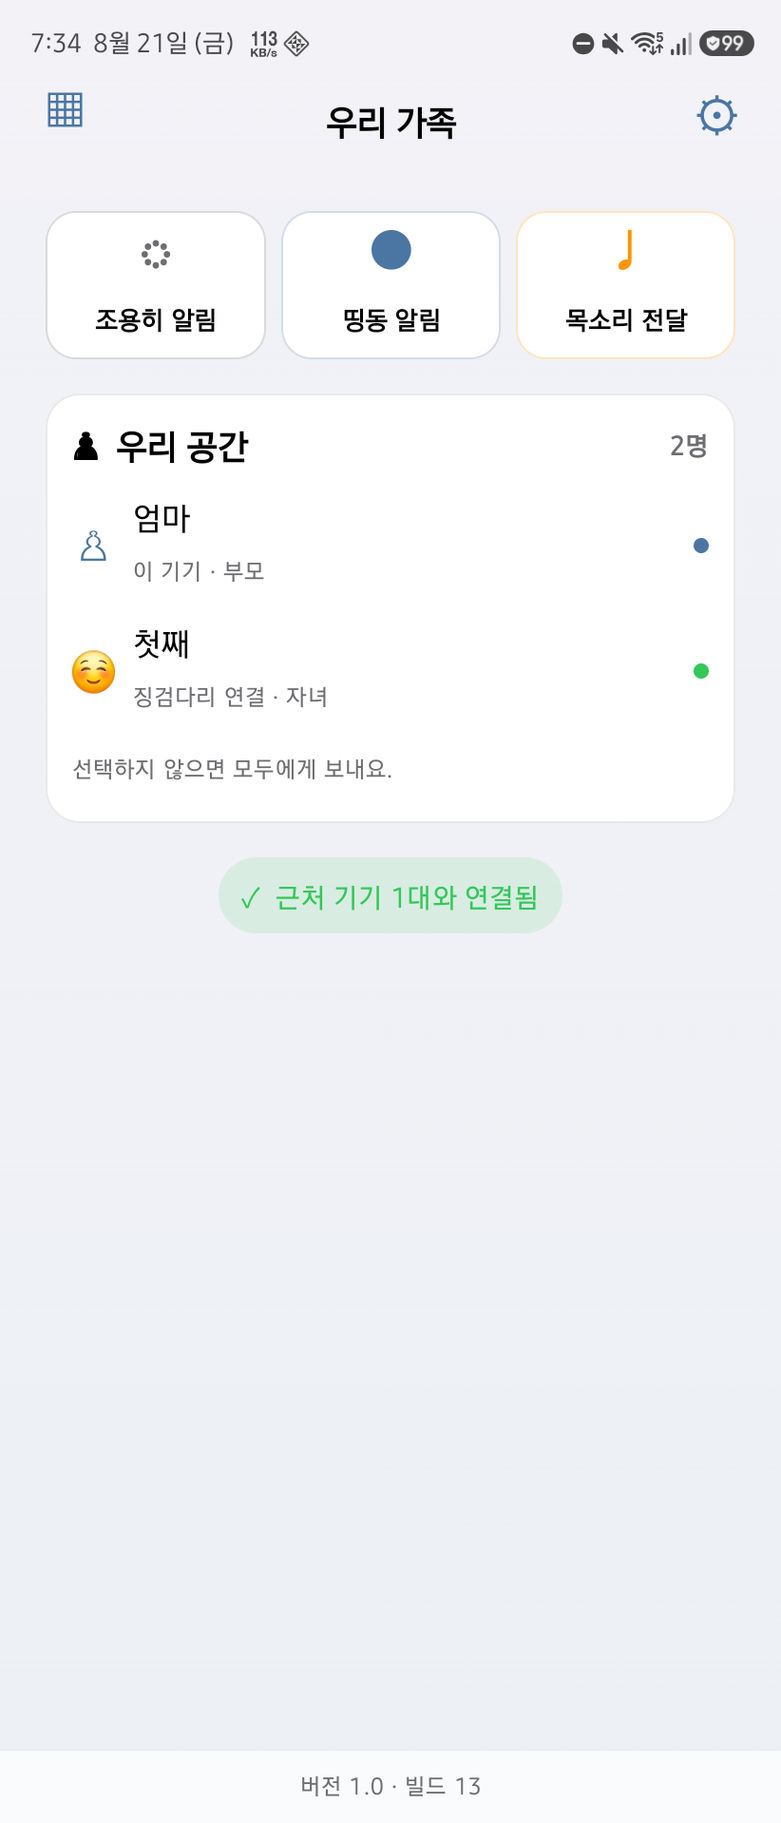
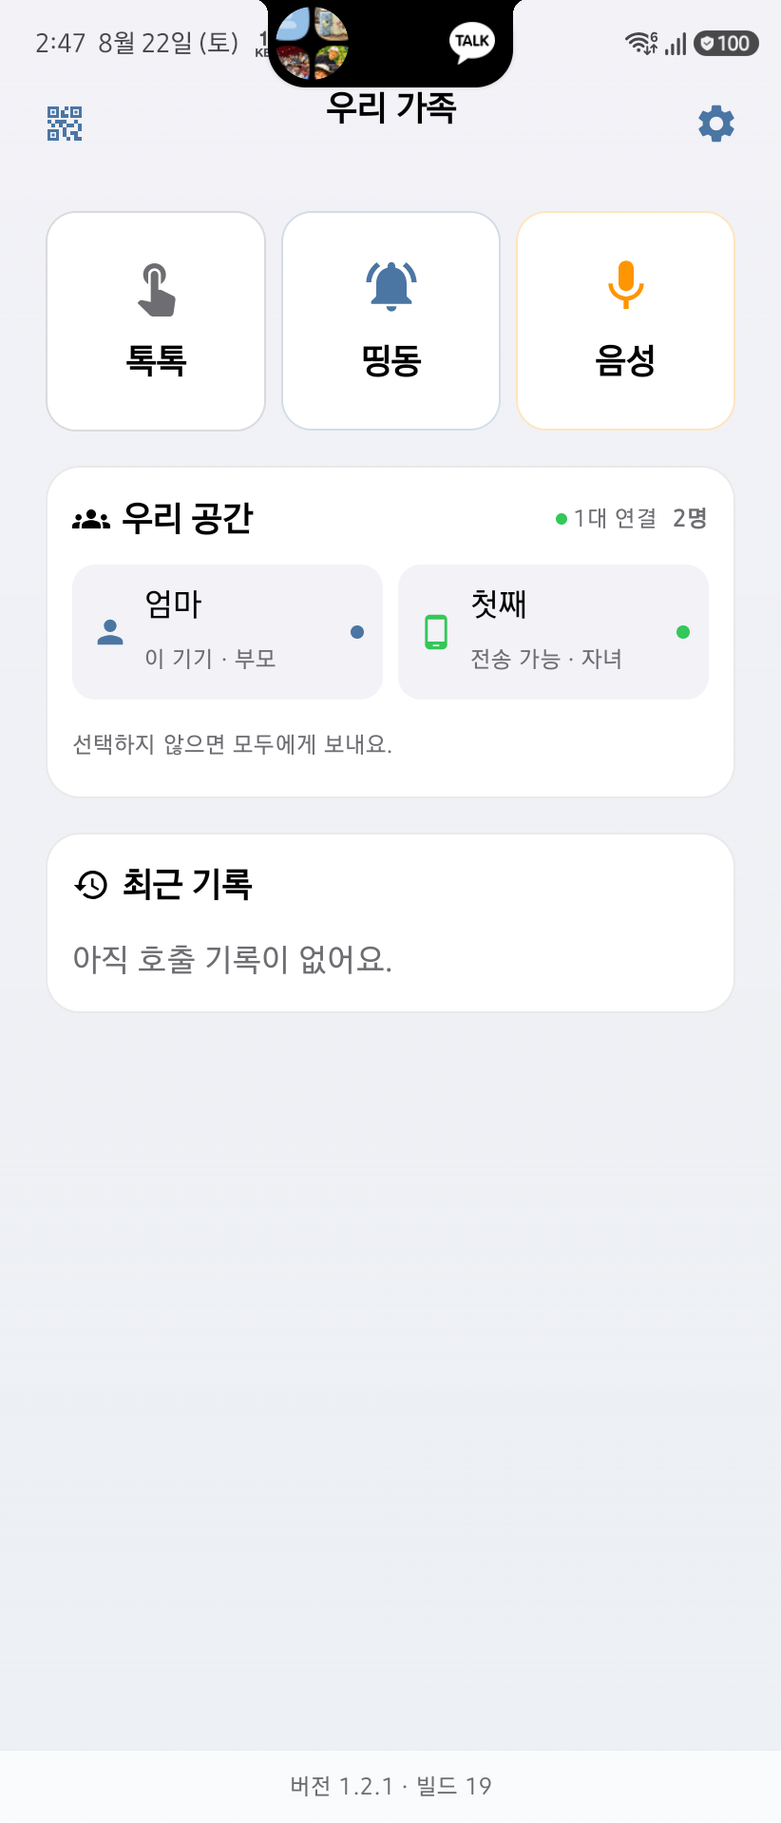
큰 정사각형 음성 버튼으로 조정

diff --git a/app/src/main/java/com/armsone/button/ui/ButtonApp.kt b/app/src/main/java/com/armsone/button/ui/ButtonApp.kt
@@ -412,7 +412,7 @@ private fun RoleCard(role: AppRole, color: Color, model: AppViewModel, modifier:
         Spacer(Modifier.height(10.dp))
         Text(if (parent) "부모" else "자녀", fontSize = 17.sp, fontWeight = FontWeight.SemiBold)
         Spacer(Modifier.height(3.dp))
-        Text("소리와 호출을 주고받아요",
+        Text("음성과 호출을 주고받아요",
             fontSize = 12.sp, color = Secondary, textAlign = TextAlign.Center)
     }
 }
@@ -425,7 +425,7 @@ private fun ParentHomeScreen(state: AppUiState, model: AppViewModel) = AdaptiveC
         VoiceState.DENIED -> "마이크 설정 필요"
         VoiceState.READY -> "전송 확인"
         VoiceState.SENT -> "전송했어요"
-        VoiceState.IDLE -> "소리"
+        VoiceState.IDLE -> "음성"
     }
     val voiceIcon = when (state.voiceState) {
         VoiceState.RECORDING -> Icons.Default.GraphicEq
@@ -476,7 +476,7 @@ private fun ChildHomeScreen(state: AppUiState, model: AppViewModel) = AdaptiveCo
             model::beginQuietHold, model::endQuietHold)
         HomeAction("띵동", Icons.Default.NotificationsActive, Accent, "dingdong", "띵동 소리와 함께 부모와 가족에게 호출을 보내요",
             Modifier.weight(1f), state.sendCooldownRemainingSeconds, model::sendDingDong)
-        HomeAction("소리", Icons.Default.Mic, Orange, "voice", "녹음한 소리를 보낼지 확인한 뒤 가족에게 보내요",
+        HomeAction("음성", Icons.Default.Mic, Orange, "voice", "녹음한 음성을 보낼지 확인한 뒤 가족에게 보내요",
             Modifier.weight(1f), state.sendCooldownRemainingSeconds, { model.showVoice(true) })
     }
     Spacer(Modifier.height(18.dp))
@@ -518,16 +518,16 @@ private fun HomeAction(
         }
         else -> Modifier.clickable(onClick = onTap)
     }
-    Column(modifier.heightIn(min = 78.dp).background(Color.White, RoundedCornerShape(16.dp))
+    Column(modifier.background(Color.White, RoundedCornerShape(16.dp))
         .aspectRatio(1f).border(1.dp, color.copy(.25f), RoundedCornerShape(16.dp)).then(gesture).testTag(tag)
         .semantics {
             contentDescription = if (enabled) title else "$title, ${cooldownSeconds}초 뒤에 다시 보낼 수 있어요"
             if (enabled) onClick(label = hint) { onTap(); true } else disabled()
-        }.padding(horizontal = 4.dp),
+        }.padding(8.dp),
         horizontalAlignment = Alignment.CenterHorizontally, verticalArrangement = Arrangement.Center) {
-        Icon(icon, contentDescription = null, tint = if (enabled) color else color.copy(.35f), modifier = Modifier.size(25.dp))
-        Spacer(Modifier.height(7.dp))
-        Text(title, fontSize = 12.sp, fontWeight = FontWeight.SemiBold, maxLines = 1,
+        Icon(icon, contentDescription = null, tint = if (enabled) color else color.copy(.35f), modifier = Modifier.size(32.dp))
+        Spacer(Modifier.height(10.dp))
+        Text(title, fontSize = if (title.length > 4) 12.sp else 17.sp, fontWeight = FontWeight.SemiBold, maxLines = 1,
             color = if (enabled) Color.Unspecified else Secondary)
         if (!enabled) {
             Spacer(Modifier.height(2.dp))
@@ -777,7 +777,7 @@ private fun QrPlaceholder(value: String) {
 @Composable
 private fun VoiceDialog(state: VoiceState, cooldownSeconds: Int, model: AppViewModel) {
     Dialog(onDismissRequest = { model.showVoice(false) }, properties = DialogProperties(usePlatformDefaultWidth = false)) {
-        SheetFrame("소리", "닫기", { model.showVoice(false) }, "voice_sheet") {
+        SheetFrame("음성", "닫기", { model.showVoice(false) }, "voice_sheet") {
             Text("버튼을 누르고 있는 동안 녹음되고,\n손을 떼면 보낼지 확인해요.", fontSize = 17.sp, color = Secondary,
                 textAlign = TextAlign.Center, modifier = Modifier.padding(top = 24.dp))
             Spacer(Modifier.height(28.dp))
@@ -792,10 +792,10 @@ private fun VoiceDialog(state: VoiceState, cooldownSeconds: Int, model: AppViewM
                     model.beginVoiceHold(); tryAwaitRelease(); model.endVoiceHold()
                 }) }.testTag("voice_hold").semantics {
                     if (coolingDown) {
-                        contentDescription = "소리 버튼, ${cooldownSeconds}초 뒤에 다시 보낼 수 있어요"
+                        contentDescription = "음성 버튼, ${cooldownSeconds}초 뒤에 다시 보낼 수 있어요"
                         disabled()
                     } else {
-                        contentDescription = "소리 버튼"
+                        contentDescription = "음성 버튼"
                         onClick(label = "1초 동안 녹음하고 전송 여부 확인") { model.recordAccessibleVoice(); true }
                     }
                 }, contentAlignment = Alignment.Center) {
@@ -833,10 +833,10 @@ private fun VoiceConfirmationDialog(state: AppUiState, model: AppViewModel) {
     val recipient = state.members.firstOrNull { it.id == state.selectedTargetID && !it.isCurrentDevice }
     AlertDialog(
         onDismissRequest = model::discardVoice,
-        title = { Text("소리를 보낼까요?") },
+        title = { Text("음성을 보낼까요?") },
         text = {
-            Text(recipient?.let { "${it.name}에게 녹음한 소리를 보내요." }
-                ?: "모두에게 녹음한 소리를 보내요.")
+            Text(recipient?.let { "${it.name}에게 녹음한 음성을 보내요." }
+                ?: "모두에게 녹음한 음성을 보내요.")
         },
         confirmButton = { TextButton(onClick = model::confirmVoiceSend) { Text("보내기") } },
         dismissButton = { TextButton(onClick = model::discardVoice) { Text("취소") } },
@@ -882,7 +882,7 @@ private fun IncomingDialog(event: IncomingUi, model: AppViewModel) {
                         IncomingKind.QUIET_ALERT -> "톡톡"
                         IncomingKind.SIREN -> "사이렌 호출"
                         IncomingKind.DING_DONG -> "띵동"
-                        IncomingKind.VOICE_MESSAGE -> "소리"
+                        IncomingKind.VOICE_MESSAGE -> "음성"
                     }
                     Text("${event.senderName}의 $title", fontSize = 22.sp, fontWeight = FontWeight.Bold, textAlign = TextAlign.Center)
                     Spacer(Modifier.height(8.dp))
@@ -890,7 +890,7 @@ private fun IncomingDialog(event: IncomingUi, model: AppViewModel) {
                     if (event.hasVoice) {
                         Spacer(Modifier.height(22.dp))
                         OutlinedButton(onClick = model::playVoice, modifier = Modifier.testTag("play_voice")) {
-                            Text("▶  소리 듣기", fontWeight = FontWeight.SemiBold)
+                            Text("▶  음성 듣기", fontWeight = FontWeight.SemiBold)
                         }
                     }
                     Spacer(Modifier.weight(1f))

diff --git a/app/src/main/java/com/armsone/button/platform/NotificationHelper.kt b/app/src/main/java/com/armsone/button/platform/NotificationHelper.kt
@@ -73,11 +73,11 @@ class NotificationHelper(
         }
         val voice = NotificationChannel(
             VOICE_CHANNEL_ID,
-            "소리",
+            "음성",
             NotificationManager.IMPORTANCE_HIGH,
         ).apply {
             group = CHANNEL_GROUP_ID
-            description = "가족이 보낸 소리가 도착하면 알려요."
+            description = "가족이 보낸 음성이 도착하면 알려요."
             enableVibration(false)
         }
         val siren = NotificationChannel(
@@ -141,11 +141,11 @@ class NotificationHelper(
             .setSubText(when {
                 siren -> "사이렌 알림"
                 dingDong -> "띵동"
-                voice -> "소리"
+                voice -> "음성"
                 else -> "톡톡"
             })
             .setContentText(when {
-                voice -> "${event.senderName}의 소리가 도착했어요."
+                voice -> "${event.senderName}의 음성이 도착했어요."
                 siren -> "${event.senderName}의 긴급 사이렌 호출이 왔어요."
                 else -> "${event.senderName}의 호출이 왔어요."
             })

diff --git a/app/src/main/java/com/armsone/button/model/CallEvent.kt b/app/src/main/java/com/armsone/button/model/CallEvent.kt
@@ -26,12 +26,12 @@ class CallEvent(
         QuietAlert("quietAlert", "톡톡"),
         Siren("siren", "사이렌 호출"),
         DingDong("dingDong", "띵동"),
-        VoiceMessage("voiceMessage", "소리"),
+        VoiceMessage("voiceMessage", "음성"),
         Acknowledge("acknowledge", "확인"),
         Presence("presence", "연결 확인");
 
         val arrivalTitle: String
-            get() = "$title${if (this == VoiceMessage) "가" else "이"}"
+            get() = "${title}이"
 
         companion object {
             fun fromRawValue(value: String): Kind? = entries.firstOrNull { it.rawValue == value }

diff --git a/app/src/main/java/com/armsone/button/model/FamilyRole.kt b/app/src/main/java/com/armsone/button/model/FamilyRole.kt
@@ -9,13 +9,13 @@ enum class FamilyRole(
     Parent(
         rawValue = "parent",
         title = "부모",
-        subtitle = "소리와 호출을 주고받아요",
+        subtitle = "음성과 호출을 주고받아요",
         symbolName = "figure.and.child.holdinghands",
     ),
     Child(
         rawValue = "child",
         title = "자녀",
-        subtitle = "소리와 호출을 주고받아요",
+        subtitle = "음성과 호출을 주고받아요",
         symbolName = "face.smiling",
     );
 

diff --git a/app/src/test/java/com/armsone/button/model/CallEventCodingTest.kt b/app/src/test/java/com/armsone/button/model/CallEventCodingTest.kt
@@ -30,7 +30,7 @@ class CallEventCodingTest {
         assertEquals("siren", CallEvent.Kind.Siren.rawValue)
         assertEquals("톡톡이", CallEvent.Kind.QuietAlert.arrivalTitle)
         assertEquals("띵동이", CallEvent.Kind.DingDong.arrivalTitle)
-        assertEquals("소리가", CallEvent.Kind.VoiceMessage.arrivalTitle)
+        assertEquals("음성이", CallEvent.Kind.VoiceMessage.arrivalTitle)
     }
 
     @Test

diff --git a/app/src/main/java/com/armsone/button/state/AppViewModel.kt b/app/src/main/java/com/armsone/button/state/AppViewModel.kt
@@ -784,7 +784,7 @@ class AppViewModel(
             IncomingKind.QUIET_ALERT -> "톡톡"
             IncomingKind.SIREN -> "사이렌 호출"
             IncomingKind.DING_DONG -> "띵동"
-            IncomingKind.VOICE_MESSAGE -> "소리"
+            IncomingKind.VOICE_MESSAGE -> "음성"
         }
         currentSpaceID()?.let { spaceID ->
             historyStore.recordSent(

diff --git a/docs/matchup-matrix.md b/docs/matchup-matrix.md
@@ -1,6 +1,6 @@
 # iOS → Android matchup matrix
 
-Evidence status: **multiple saved rooms, 20-entry history retention, per-device remaining-recipient counts, child sound sending, explicit send confirmation, square `톡톡`/`띵동`/`소리` actions, and purpose-matched icons are implemented on both platforms; paired post-change visual and live multi-device push evidence is still required**. The latest source passed 40 iOS tests plus a simulator build, the Android debug unit suite plus `assembleDebug`, and all 21 server tests. Existing screenshot catalogs predate this change and the iOS project still has no full fixture/XCUITest catalog, so no affected row is labelled fully `matched`.
+Evidence status: **multiple saved rooms, 20-entry history retention, per-device remaining-recipient counts, child voice sending, explicit send confirmation, large square `톡톡`/`띵동`/`음성` actions, and purpose-matched icons are implemented on both platforms; paired post-change visual and live multi-device push evidence is still required**. The latest source passed the iOS release build and the Android debug unit suite plus `assembleDebug`; the enlarged Android `parent_home` fixture was captured on SM-F968N. The iOS project still has no full fixture/XCUITest catalog, so no affected row is labelled fully `matched`.
 
 Shared profile is `ko-KR`, light appearance, portrait, default text scale, a deterministic family named `우리 가족`, sender `엄마`, member `첫째`, unless a row states otherwise. Android captures are 822×1918 PNGs from SM-F968N (Android 16) and 1200×2000 PNGs from SM-T500 (Android 10). The only available iOS baseline is 1206×2622 from the dedicated iPhone simulator. Immutable hashes are recorded in `docs/screenshots/SHA256SUMS`.
 
@@ -18,7 +18,7 @@ Shared profile is `ko-KR`, light appearance, portrait, default text scale, a det
 | join_invite_confirmed_named | participate action | enabled CTA and persistence | valid invite, member=`첫째` | `참여하기`; then role selection | source target inventoried | relaunch trace missing | tap and relaunch | source/High | implemented from source; behavioral parity unverified |
 | role_compact | parent/child cards | vertical layout and exact text | compact width | `RoleSelectionView.swift`, parent then child | Compose compact target | bounds unmeasured | phone capture | source/High | implemented from source; visual parity unverified |
 | role_regular | parent/child cards | horizontal adaptive layout | regular/≥600dp | iOS HStack for regular size class | Android tablet target | breakpoint equivalence unproven | iPad + Android tablet pair | source/High | 확인 필요 |
-| parent_idle | square action cards and history | content/order/geometry | parent, searching, empty history | square `톡톡`, `띵동`, `소리`; two-column family card; `최근 기록`; `아직 호출 기록이 없어요.` | Compose source uses the same labels, order, and 1:1 action aspect ratio | post-change runtime layout unmeasured | recapture `parent_home` | source/High | implemented from source; visual parity unverified |
+| parent_idle | large square action cards and history | content/order/geometry | parent, searching, empty history | large square `톡톡`, `띵동`, `음성`; two-column family card; `최근 기록`; `아직 호출 기록이 없어요.` | Compose uses the same labels, order, 1:1 action aspect ratio, 32-unit icons, and 17-unit labels | iOS post-change capture unavailable | capture the same iOS state | Android runtime+source/High | Android captured; paired visual parity unverified |
 | home_action_icons | three parent actions / three child actions | icon meaning, state, tint, square geometry | parent/child idle and recording fixtures | SF Symbols: tapping hand, ringing/badged bell, mic; voice states use waveform, mic-off, checkmark | Material vectors use touch-app, notifications-active, mic; voice states use graphic-eq, mic-off, check-circle | platform vector path geometry differs and paired captures are absent | capture the same states on iPhone and Android phone/tablet | source/High | semantic relationship and square geometry implemented; exact visual parity unverified |
 | parent_connected | compact transport status | state text and placement | 1 peer | presence header dot + `1대 연결`; no standalone badge | Compose now places the same compact status in the presence header | BLE runtime not traced; post-change capture absent | paired connection trace and recapture | source/High | implemented from source; behavioral/visual parity unverified |
 | parent_demo | demo hint | content/state | demo enabled | `데모 모드: 보낸 호출이 이 기기로 다시 전달돼요.` | source target inventoried | runtime not captured | toggle demo, return home | source/High | implemented from source; visual parity unverified |
@@ -49,7 +49,7 @@ Shared profile is `ko-KR`, light appearance, portrait, default text scale, a det
 | voice_recording | parent home action | press/hold without recorder navigation | granted, held | home action turns red with waveform and records immediately; release opens a send decision | Android source has the same recording and decision transition | paired post-change capture and real audio trace missing | hold/release on both senders and capture the decision | source/High | implemented from source; behavioral/visual parity unverified |
 | voice_recording_header | navigation title subtitle | recording visibility above covered button | parent holds voice action | room title stays centered with red `녹음 중…` directly below | same fixed subtitle line and exact text in the 44dp header | paired post-change iOS capture absent | capture recording state on both platforms | source/High | implemented from source; visual parity unverified |
 | voice_auto_stop | recorder limit | 15-second auto completion | held ≥15s | auto-stop at 15s and ask whether to send | 15,000ms handler + recorder cap followed by `READY` | timing not measured | monotonic timing test | source/High | implemented from source; behavioral parity unverified |
-| voice_ready | sound confirmation | send/cancel decision | parent or child, valid recording, recipient=`첫째` | dialog title `소리를 보낼까요?`, target-aware message, `보내기` and `취소`; no send before confirmation | matching Compose dialog and ready state for both roles | paired captures and packet trace absent | capture both roles and verify cancel=0 sends, send=1 | source+unit/High | implemented from source; behavioral/visual parity unverified |
+| voice_ready | voice confirmation | send/cancel decision | parent or child, valid recording, recipient=`첫째` | dialog title `음성을 보낼까요?`, target-aware message, `보내기` and `취소`; no send before confirmation | matching Compose dialog and ready state for both roles | paired captures and packet trace absent | capture both roles and verify cancel=0 sends, send=1 | source+unit/High | implemented from source; behavioral/visual parity unverified |
 | voice_sent | parent home action | completion/reset | valid recording | home action shows `전송했어요` briefly | matching state; Android fixture `parent_home_voice_sent` added | paired timing/capture missing | release and capture | source/High | implemented from source; visual parity unverified |
 | settings_notification_needed | notification row | permission CTA | not determined | `허용 필요`, `잠금화면 알림 허용` | Android permission target | OS authorization mechanics differ | Android 13+ capture | source/High | app surface unverified; OS dialog exception candidate |
 | settings_notification_denied | notification row | denied CTA | denied | red `차단됨`, iOS settings action | Android correctly uses `Android 알림 설정 열기` | OS destination naming is platform-owned content | paired capture with smallest affected mask | runtime/High | Android captured; platform exception documented |
@@ -63,7 +63,7 @@ Shared profile is `ko-KR`, light appearance, portrait, default text scale, a det
 | settings_role_reset | role reset | retained space | tap `역할 다시 고르기` | returns role selection, preserves family/name | source target inventoried | relaunch trace missing | tap, select, relaunch | source/High | implemented from source; behavioral parity unverified |
 | settings_rooms | saved room management | create/join/switch/leave active room | two configured rooms | settings lists every room, marks the active room, and switches with each room's name/role/history; leaving removes only the active room | Android implements the same saved-room list, active marker, per-room state restoration, and all-room push registration | paired runtime and inactive-room delivery traces absent | create two rooms, switch/relaunch, receive in inactive room, leave one room | source+unit/High | implemented from source; live multi-device verification pending |
 | root_send_error | error alert | exact wording/recovery | no peer/server | title `전송 안내`, `확인`, model error | source target inventoried | error variants untraced | inject each transport/backend error | source/High | implemented from source; behavioral parity unverified |
-| widget_voice_entry | sound recorder | widget entry | configured parent or child | parent/child widgets expose `톡톡`, `띵동`, `소리`, and app-open; `소리` opens the same confirmation flow | Android parent/child 2×2 widgets dispatch the same four actions into MainActivity | launcher-host pixels and cold-start trace not captured | widget-host behavior trace for both roles | source/High | implemented; host verification pending |
+| widget_voice_entry | voice recorder | widget entry | configured parent or child | parent/child widgets expose `톡톡`, `띵동`, `음성`, and app-open; `음성` opens the same confirmation flow | Android parent/child 2×2 widgets dispatch the same four actions into MainActivity | launcher-host pixels and cold-start trace not captured | widget-host behavior trace for both roles | source/High | implemented; host verification pending |
 | parent_tablet_landscape | home adaptive container | large-screen geometry | tablet landscape | max-width adaptive SwiftUI container | ≥600dp Android layout target | paired bounds absent | iPad/Android tablet landscape capture | source/Medium | 확인 필요 |
 | child_large_text | waiting card | accessibility wrapping | largest supported text | SwiftUI text wraps; actions remain available | Compose target | clipping audit absent | paired large-text capture + semantics | source/Medium | 확인 필요 |
 

diff --git a/README.md b/README.md
@@ -18,7 +18,7 @@ State inventory, evidence limits, pending exceptions and capture commands are in
 
 Build 13 also matches the latest iOS one-recipient calling contract: `targetID` remains an optional v1 JSON field, non-target devices relay without alerting, ACKs return to the original sender and are displayed only when correlated to a recently sent call, and parent/child homes expose recipient selection plus sent/acknowledged activity banners.
 
-The recipient picker also merges the authenticated server directory with nearby BLE presence, so every remote-notification-capable device in the family space remains individually selectable at a distance. Users can save, create, join and switch between separate family rooms; remote registration is maintained for every configured room. The square home actions are `톡톡`, `띵동`, and `소리` for both parent and child roles, with purpose-matched tap, ringing-bell and microphone icons. Voice recording waits for an explicit send or cancel decision instead of transmitting on release.
+The recipient picker also merges the authenticated server directory with nearby BLE presence, so every remote-notification-capable device in the family space remains individually selectable at a distance. Users can save, create, join and switch between separate family rooms; remote registration is maintained for every configured room. The large square home actions are `톡톡`, `띵동`, and `음성` for both parent and child roles, with purpose-matched tap, ringing-bell and microphone icons. Voice recording waits for an explicit send or cancel decision instead of transmitting on release.
 
 Call history is capped at the newest 20 entries across saved rooms. Sent entries show the remaining recipient count at the far right, decrement once per acknowledging device, and hide the count at zero.
 
@@ -32,7 +32,7 @@ Call history is capped at the newest 20 entries across saved rooms. Sent entries
 - Foreground ding-dong audio is synthesized to the iOS frequencies/timing. The versioned notification channel uses the original iOS `dingdong3.wav` bundled as `res/raw/dingdong3`.
 - A five-second quiet-button hold sends a remote siren event without sounding the sender. The receiver uses the bundled `siren.wav` and a dedicated notification channel.
 - Parent calls have no cooldown. The 10-second send cooldown remains limited to the child role.
-- Parent and child voice recording starts from the `소리` home action, asks for confirmation before sending, plays once when the recipient enters the app, and remains replayable from call history.
+- Parent and child voice recording starts from the `음성` home action, asks for confirmation before sending, plays once when the recipient enters the app, and remains replayable from call history.
 - Background BLE is **not guaranteed**. Current BLE work is lifecycle-safe foreground best effort. Process death, force-stop, Doze, OEM restrictions and Android background-start rules can stop scanning/advertising. A foreground service would require a persistent user-visible notification plus service declarations/types and should be added only as an explicit product decision.
 
 The implementation pass verified `testDebugUnitTest`, `assembleDebug`, and `assembleRelease`, then installed versionCode 13 with data preservation and cold-launched it on SM-F968N and SM-T500. Version 1.1 (build 14) adds mixed APNs/FCM remote delivery. Version 1.1.1 (build 15) disables Android backup so the family-space secret and device membership cannot leave the device through cloud backup or device transfer. Version 1.1.3 (build 17) adds the remote siren, direct hold-to-send voice flow, parent-only unlimited sending, and centered recording/countdown status.
